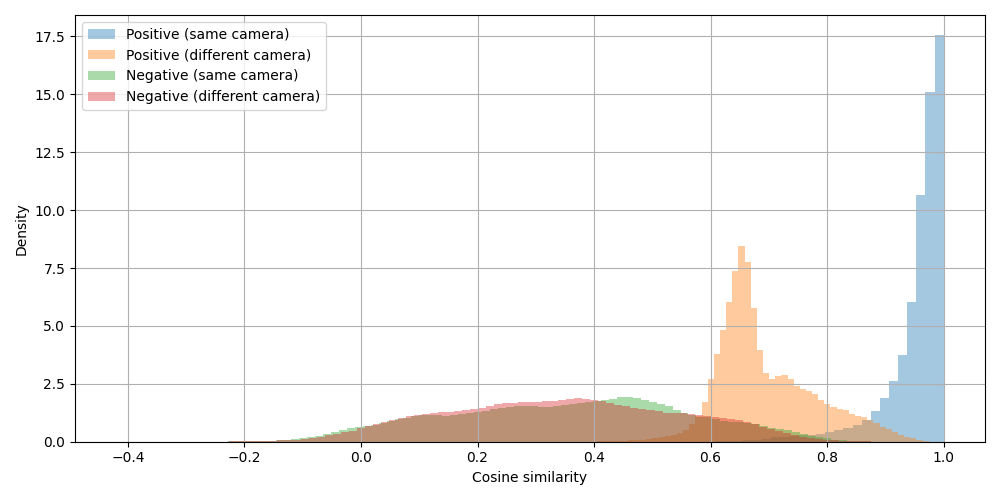
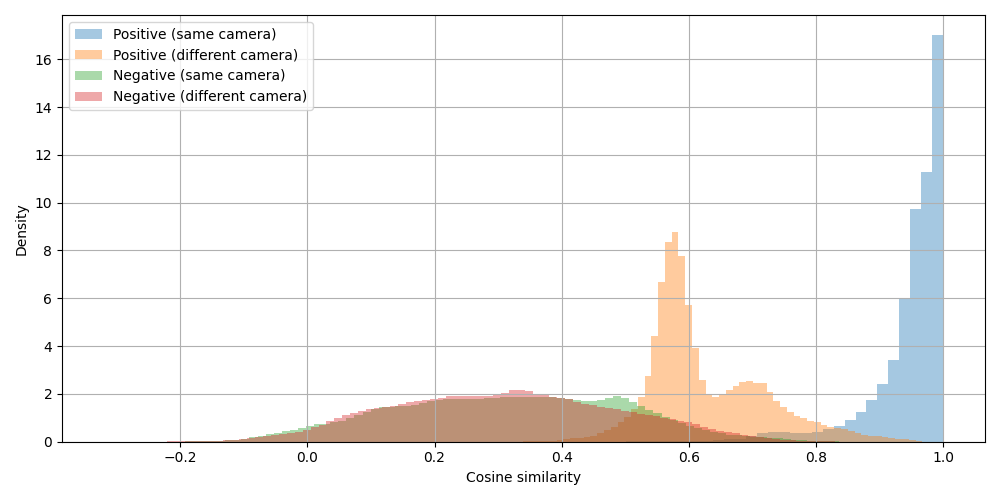
misc tests

diff --git a/misc/load_embeddings_from_gt_into_db.py b/misc/load_embeddings_from_gt_into_db.py
@@ -120,8 +120,8 @@ def main():
                                         gt_path = f"/home/tomass/tomass/data/AIC22_Track1_MTMC_Tracking(1)/train/S01/c00{i}/gt/gt.txt",
                                         cam_id = f"S01c00{i}",
                                         split = "train",
-                                        model_opts_path="/home/tomass/tomass/ReID_pipele/vehicle_reid_repo2/vehicle_reid/model/ep26ft_ctr_trip_loss/opts.yaml",
-                                        model_ckpt_path="/home/tomass/tomass/ReID_pipele/vehicle_reid_repo2/vehicle_reid/model/ep26ft_ctr_trip_loss/net_36.pth")
+                                        model_opts_path="vehicle_reid_repo2/vehicle_reid/model/batchfix/opts.yaml",
+                                        model_ckpt_path="vehicle_reid_repo2/vehicle_reid/model/batchfix/net_15.pth")
         embedder.save_dict_to_db(db)
         # except:
         #     print("[Main] Embeddings not properly loaded.")

diff --git a/gt_cam_to_cam_embed_sim.py b/gt_cam_to_cam_embed_sim.py
@@ -295,7 +295,7 @@ def evaluate_rank1_map(embeddings_buckets):
 if __name__ == "__main__":
     
     main_dir = "/home/tomass/tomass/Cam_record"
-    date_folders = ["04.09.25_2","04.09.25_3"]
+    date_folders = ["04.09.25_2","04.09.25_3","12.01.26","13.01.26","14.01.26"]
     camera_folders = ["perspective_views_fisheye_record"]
     perspective_folders = ["center", "left", "right"]
 
@@ -336,8 +336,8 @@ if __name__ == "__main__":
         
     else:
         model = load_model_from_opts(
-            "vehicle_reid_repo2/vehicle_reid/model/ctr_and_trp_loss/opts.yaml",
-            ckpt="vehicle_reid_repo2/vehicle_reid/model/ctr_and_trp_loss/net_27.pth",
+            "vehicle_reid_repo2/vehicle_reid/model/main_sp4_ep6_ft_noCEL_070126/opts.yaml",
+            ckpt="vehicle_reid_repo2/vehicle_reid/model/main_sp4_ep6_ft_noCEL_070126/net_26.pth",
             remove_classifier=True,
             return_feature=True)
         model.eval()
